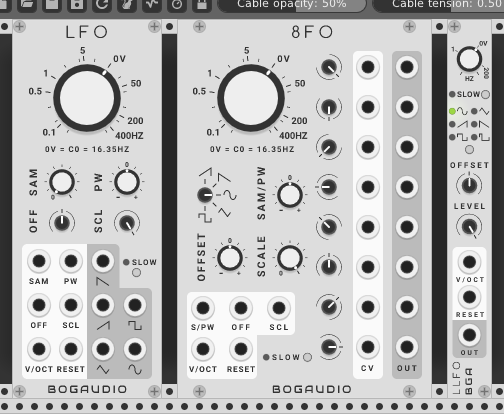
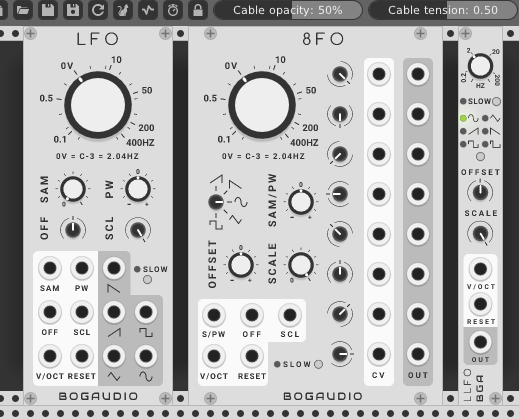
Update README.

diff --git a/README.md b/README.md
@@ -107,7 +107,9 @@ A standard LFO featuring:
   - Reset (hard sync) input.
   - Slow mode.
 
-LFO tracks pitch CVs at the V/OCT input four octaves lower than a normal oscillator: with a 0V input, the output frequency is note C0 (16.35HZ).  The frequency knob is calibrated in linear volts (the small ticks), and its value is added to the input V/OCT.  With no input, the frequency range is from approximately 0.1 to 400HZ; with CV the frequency may be driven up to 2000HZ or down to arbitrarily low values.  In slow mode, the output frequency tracks the controls 8 octaves lower than in normal mode.
+LFO tracks pitch CVs at the V/OCT input seven octaves lower than a normal oscillator: with a 0V input, the output frequency is note C-3 (2.04HZ).  The frequency knob is calibrated in linear volts (the small ticks), and its value is added to the input V/OCT.  With no input, the frequency range is from approximately 0.1 to 400HZ; with CV the frequency may be driven up to 2000HZ or down to arbitrarily low values.  In slow mode, the output frequency tracks the controls 11 octaves lower than in normal mode.
+
+*NOTE ON FREQUENCIES:* Previous to release 0.6.14 (April 2019), LFO tracked 0V as C0 or 16.35HZ (and 8 octaves lower in slow mode). Patches created with older versions will continue to have the old behavior.  New instances of LFO added to patches will have the new behavior.  The behavior can be toggled, in either case, on the context (right-click) menu.
 
 #### 8FO
 
@@ -194,6 +196,7 @@ Features:
   - CV-controlled stereo panners; expects +/-5 volt CV; CV is attenuverted by the corresponding knob when in use.
   - Stereo outputs; if only one is patched, the output mix is mono.
   - Performance mutes (buttons) per channel.
+  - Right-click a mute buttons solos that channel (un-mutes that channel and temporarily mutes all others).  Right or left click will un-solo, restoring the old state.  Multiple channels can be "soloed" at once.
   - Fader handles contain lights indicating the signal level out of that channel or the entire mix.
   - Output saturates (soft clips) to +/-12 volts, where the clipping effect becomes noticeable above +/-10 volts.
 
@@ -230,6 +233,8 @@ Saturation (soft clipping) is applied to each output at +/-12 volts; the LEVEL k
 #### MUTE8
 
 MUTE8 provides 8 independent manual or CV-controlled mutes. Each channel is muted if its button is toggled on or if there is a positive voltage at its CV input.  Otherwise the input is passed to the output.
+
+As with MIX4 and MIX8, a right-click on a mute button will solo that channel (pass that channel through while muting all others).  Right or left click clears this.
 
 #### PAN
 
